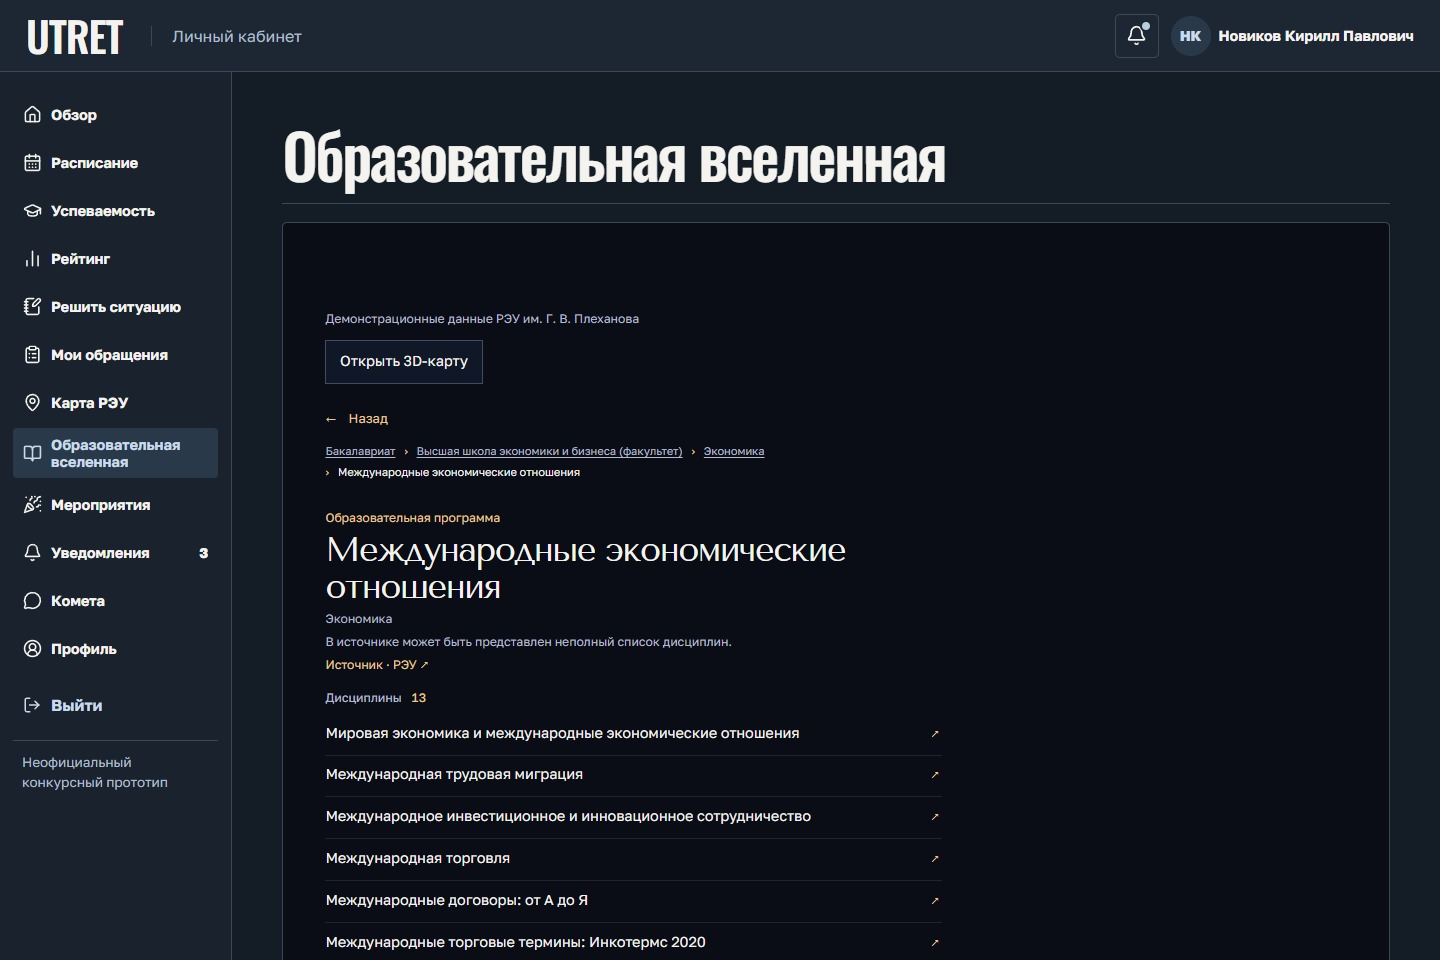
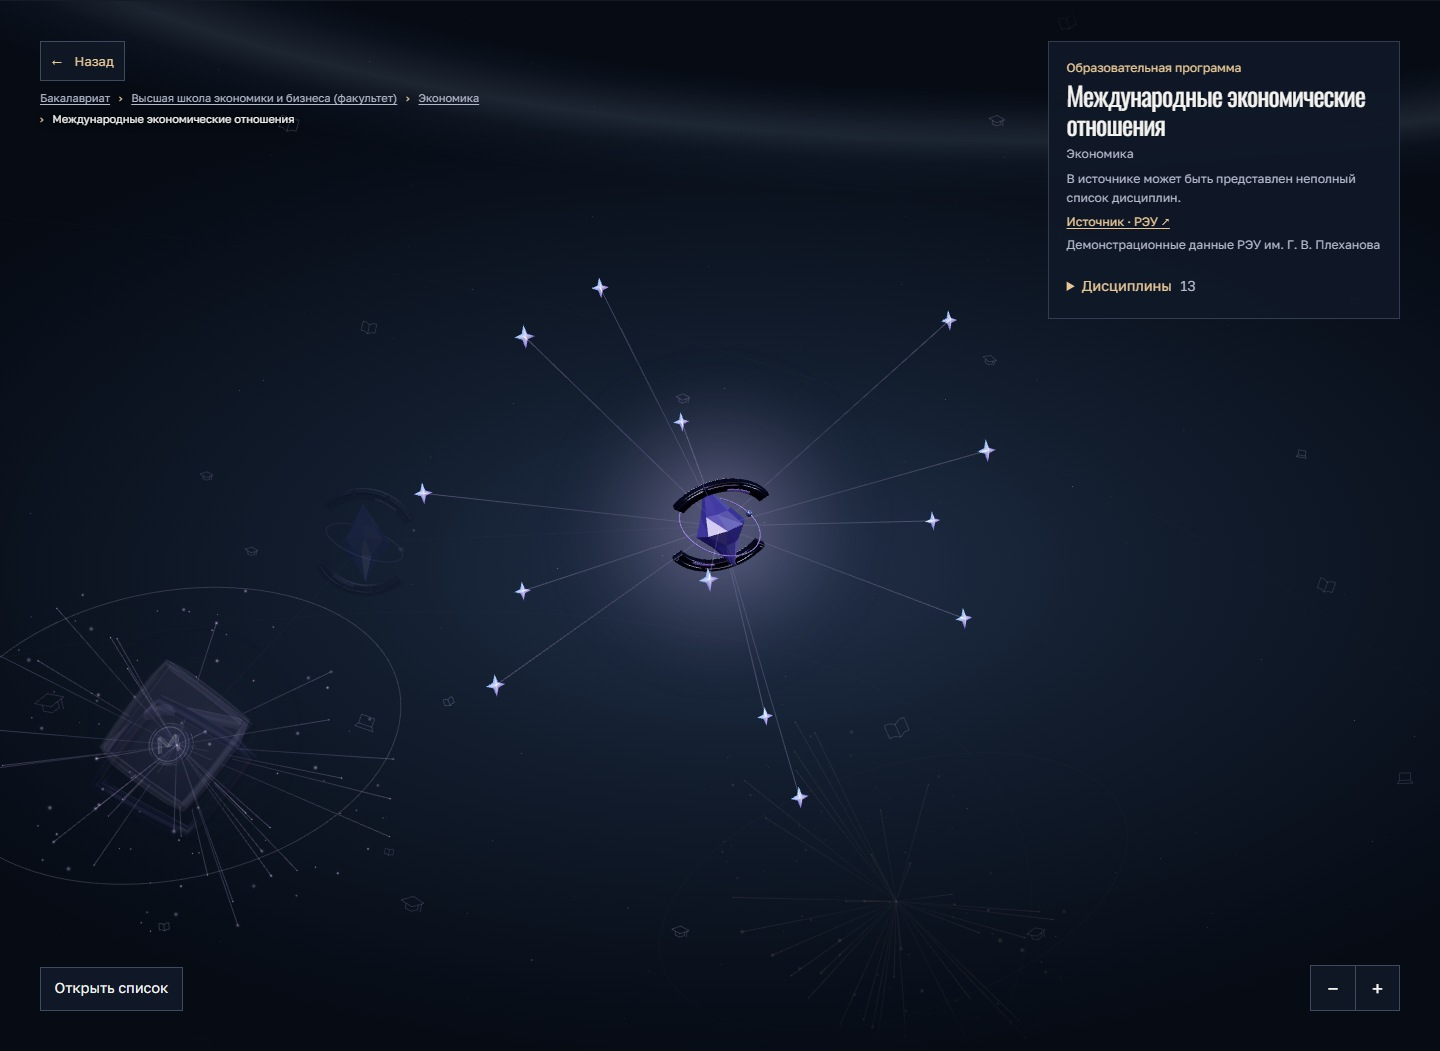
Show the selected program in the open 3D universe

diff --git a/README.md b/README.md
@@ -24,7 +24,7 @@
 
 Один JSON питает сцену Three.js и HTML-список. В текущей сборке 3D-код и сжатые модели загружаются одним файлом, а граф подгружается параллельно. Список работает с теми же данными и доступен при отсутствии WebGL.
 
-![Карточка программы с путём от факультета и списком дисциплин](docs/readme/universe-program.jpg)
+![Программа «Международные экономические отношения» и её дисциплины на открытой 3D-карте](docs/readme/universe-program.jpg)
 
 [Данные графа](campus-os-design-exploration/education-universe/data/education_universe.graph.json) · [Загрузчик сцены](campus-os-design-exploration/education-universe/universe.mjs)
 
